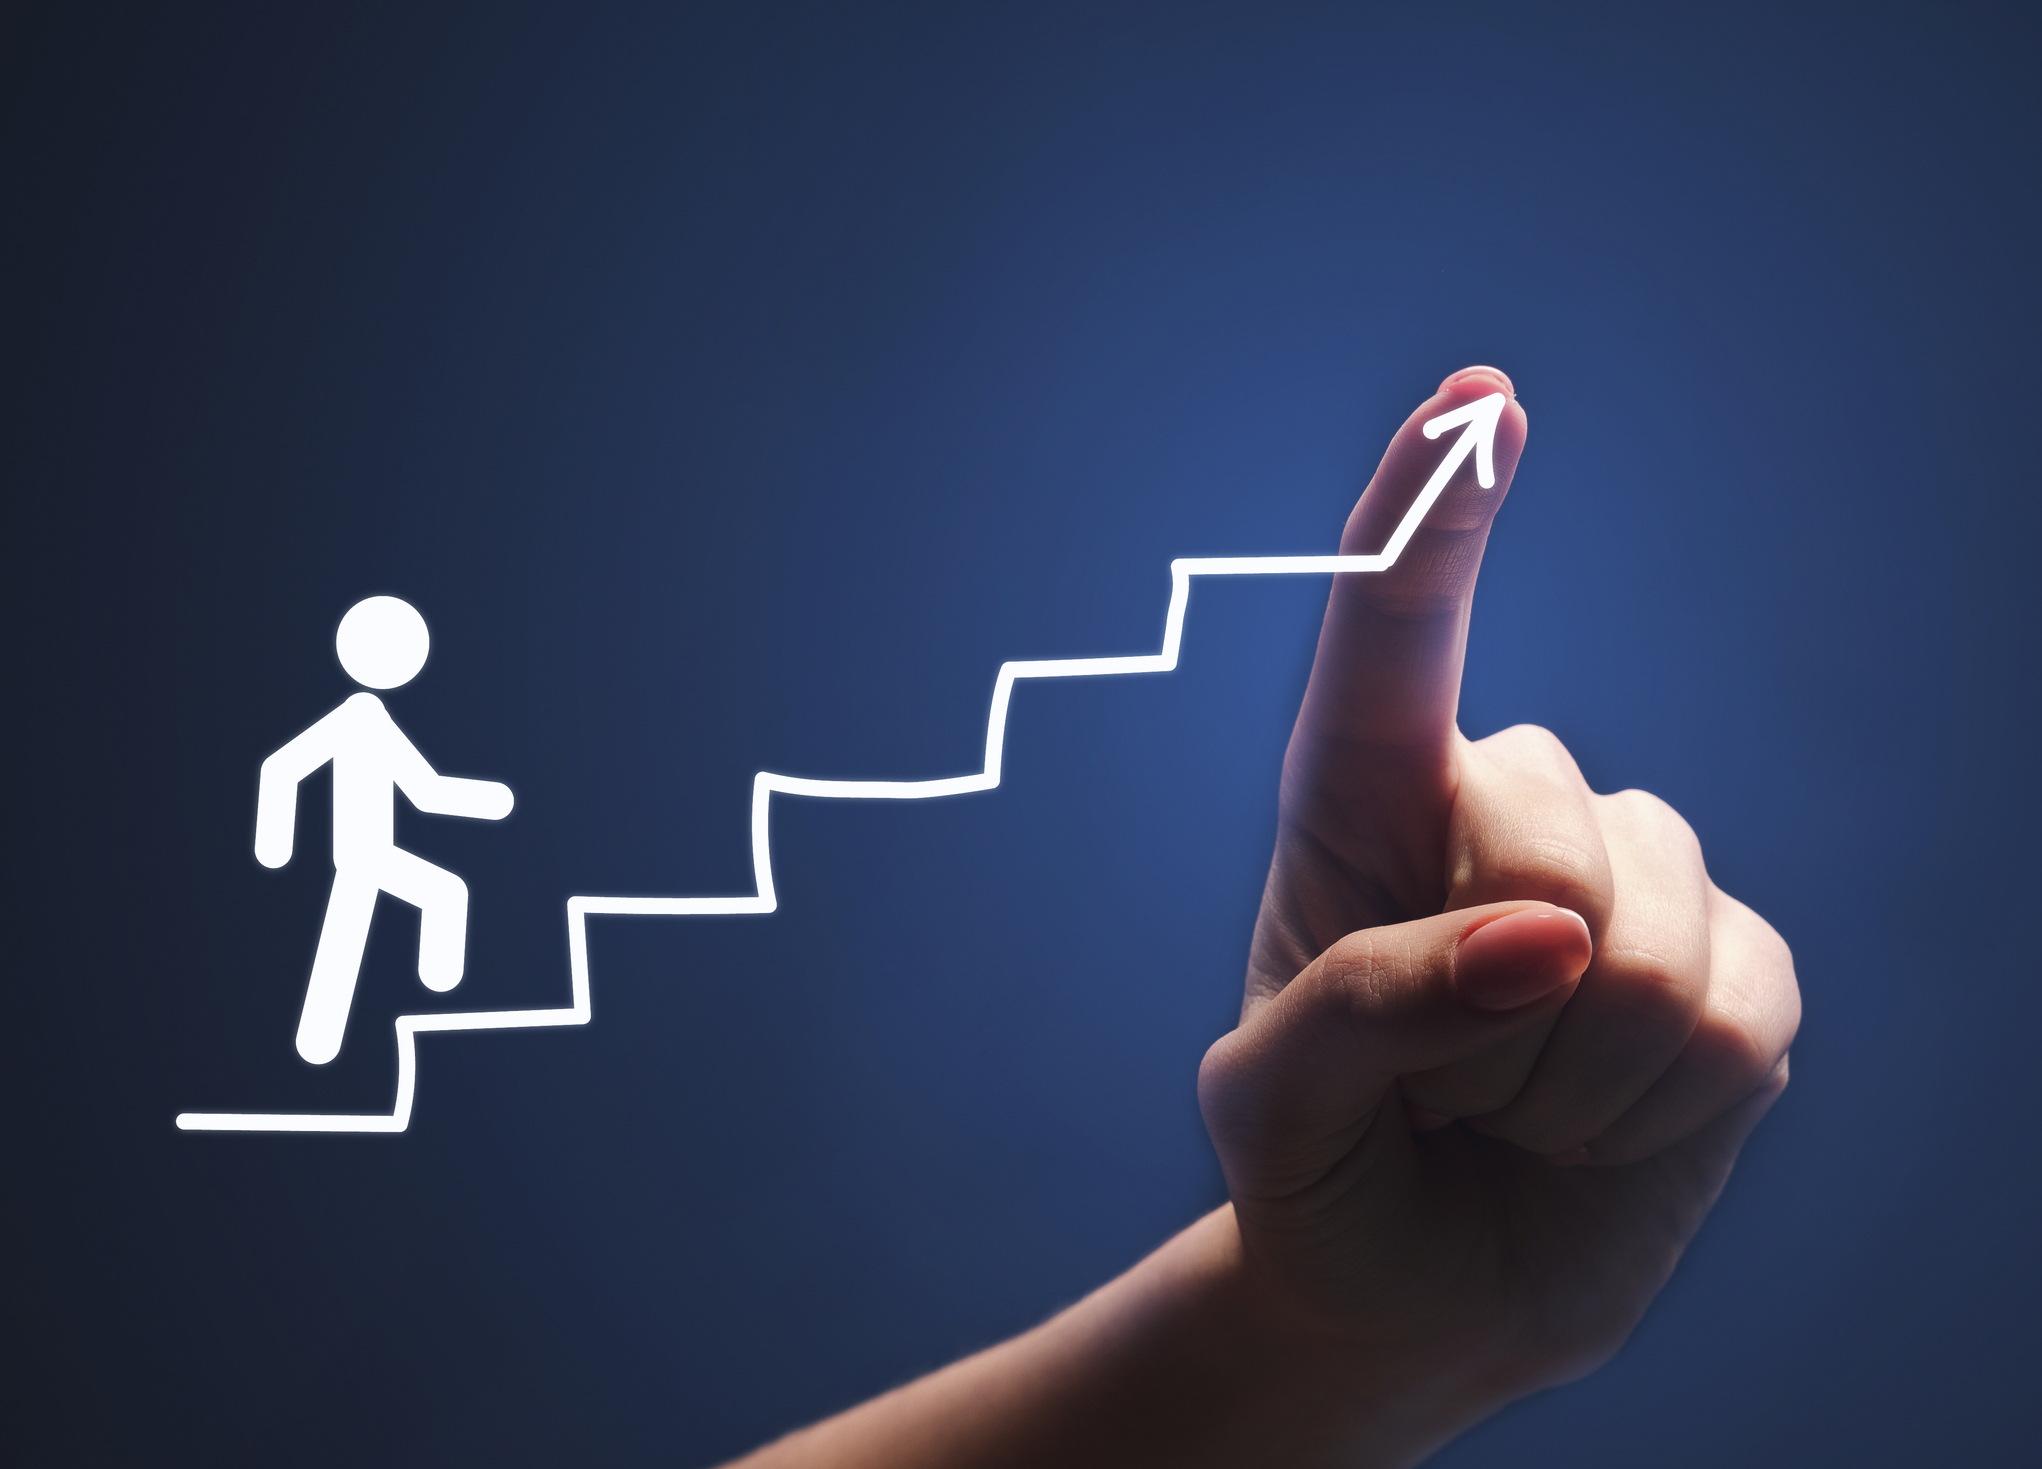
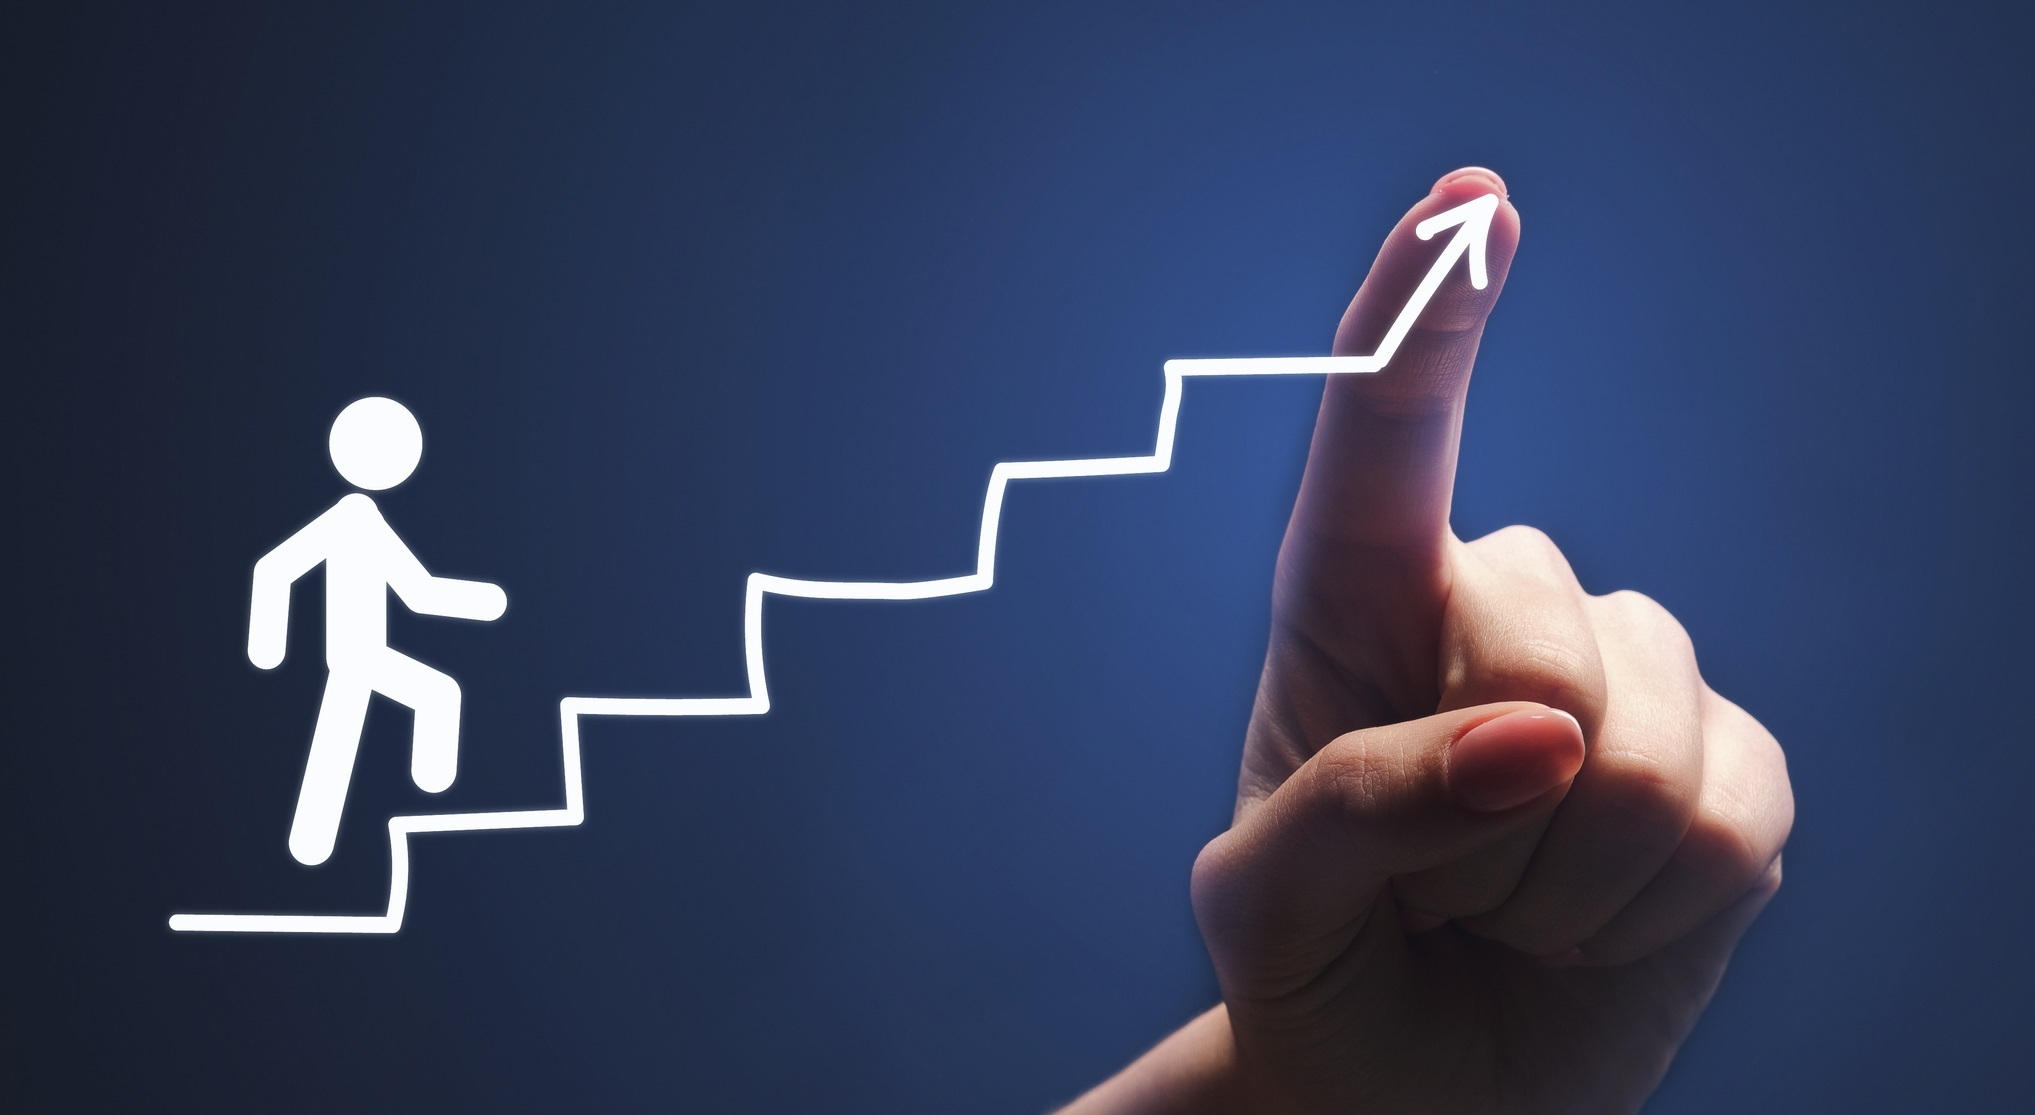
chance background img

diff --git a/style4.css b/style4.css
@@ -34,11 +34,11 @@ p {
 
 .main-home-banner 
 {
-    margin-top: 40px;
-    padding: 200px 0 0 0;
+    margin-top: 7rem;
     background: url(Child_Climbing_Ladder.jpg) center no-repeat;
     background-size: cover;
     color: #ffff;
+    height: 500px;
 }
 
 .main-home-banner h1 {
@@ -82,7 +82,7 @@ p {
 
 .sol-cont-head h3 {
     font-size: 30px;
-    margin-top: 3rem;
+    margin-top: 4.5rem;
     line-height: 40px
 }
 
@@ -268,7 +268,7 @@ q {
 
 .testimonial-section {
     margin-top: 1.5rem;
-    padding-top: 3rem;
+    padding-top: 2rem;
     background: #f5f5f5;
     padding-bottom: 3rem
 }
@@ -402,7 +402,8 @@ ul#footer-links li a {
         font-size: 33px;
     }
     .main-home-banner {
-        padding-bottom: 0
+        margin-top: 30px;
+        height: 400px;
     }
     .pricing-head h2 {
         font-size: 22px
@@ -1180,6 +1181,7 @@ ul.faq-list a {
 
     #video2-cont {
         padding-bottom: 43px;
+        margin-bottom: 20px;
     }
     
     .video2-text {
@@ -1466,8 +1468,21 @@ ul.price-card2-list {
 
 @media (max-width: 991px)
 {
+    .sol-cont-head h3 {
+        margin: unset;
+    }
+
     .sol-box-1{
         height: unset;
+    }
+
+    .video-cont {
+        margin: 20px 14px 0px 14px;
+        border-radius: 10px; 
+    }
+
+    .video-cont h3 {
+        font-size: 32px;
     }
 
 } 
@@ -1511,7 +1526,7 @@ ul.price-card2-list {
     }
 
     .main-home-banner {
-        padding-top: 50px !important;
+        height: 350px;
     }
 
 }
@@ -1519,14 +1534,21 @@ ul.price-card2-list {
 @media only screen and (max-width: 425px)
 {
     .main-home-banner {
-        margin: unset;
+        margin-top: 5rem;
+        height: 250px;
     }
 }
 
 @media only screen and (max-width: 362px)
 {
+        /* height: 250px; */
     .get-sol-btn {
         padding: 10px 15px;
+    }
+
+    .main-home-banner {
+        margin-top: 5rem;
+        height: 220px;
     }
 }
 

diff --git a/home1.php b/home1.php
@@ -184,17 +184,9 @@ include('OTPfunction.php');
 
 <!-- home banner -->
 <div class="main-home-banner" >
-    <div class="container">
-            <div class="banner-content">
-                <div class="banner-content-head">
-                    <!-- <h1>Integrating Learning with Emotional Preparedness</h1> -->
-                    </div>
-                    <div class="banner-content-content">
-                    <p style="font-size: 18px;"><span style="background-color: #2572b7"></span></p> 
-                </div> 
-                    <!-- <a href="#" data-toggle="modal" data-target="#myModal" class="btn-banner">Get Your Free Analysis Today</a> -->
-            </div>
-    </div>
+    <!-- <div class="container"> -->
+            <!-- <div class="banner-content"></div> -->
+    <!-- </div> -->
 </div>
 
 <!-- Content Starts  -->
@@ -353,7 +345,7 @@ include('OTPfunction.php');
 </div>
 
 <!-- video Section 2 -->
-<div class="video-section" style="margin-top: 4rem;">
+<div class="video-section" style="margin-top: 2rem;">
     <div class="container">
         <div class="row">
             <div id="video2-cont" class="col-md-6 video-cont">
